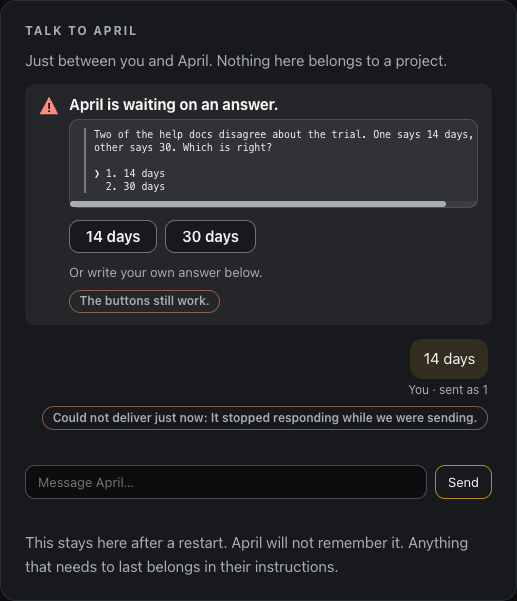
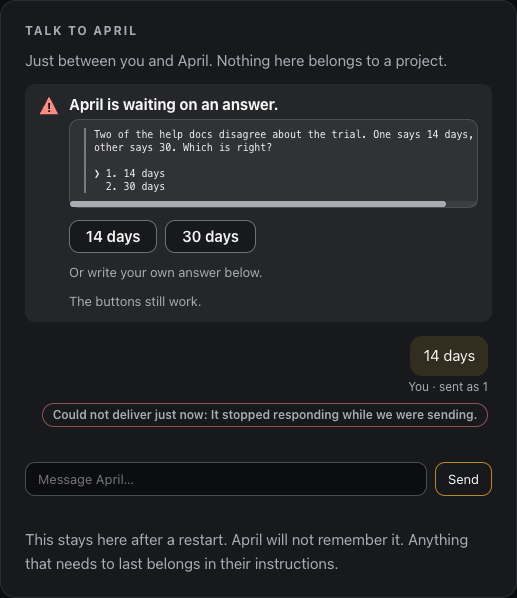
answer-panel -- the scrollbar gate was wrong twice, and the reassurance stops wearing red
TWO CORRECTIONS AND ONE RULING.

docs/browser-checks/render-talk.js: I gated the scrollbar assertion on "headed",
having concluded that headless Chromium ignores ::-webkit-scrollbar. Mona Lisa
ran my own control against system Chrome and got the opposite, and concluded it
was the BINARY (Playwright's bundled Chromium against the real one). We were
both wrong, and the third measurement says why:

  bundled chromium HEADLESS                     not honoured
  bundled chromium HEADED                       honoured
  system chrome    HEADLESS (via playwright)    not honoured
  bundled  HEADLESS, ignoreDefaultArgs --hide-scrollbars   honoured
  system   HEADLESS, ignoreDefaultArgs --hide-scrollbars   honoured

Playwright passes --hide-scrollbars by default in headless mode. Neither the
render mode nor the binary decided it; a launch flag did. The check drops the
flag, so the assertion is now live in BOTH modes rather than permanently skipped
on any headless machine, and the guard is a CAPABILITY PROBE rather than a
user-agent sniff: ask the engine for a 24px scrollbar on a throwaway box and see
whether layout moves by 24. A probe cannot be wrong about its own engine, which
is what both of our inferences were.

web/index.html: the reassurance stops wearing the failure pill, ruled by Mona
Lisa. "The buttons still work." is a recovery instruction, not a verdict: its
whole job is to say the thing still works, and it drew as a red pill INSIDE the
[…]

diff --git a/docs/browser-checks/render-talk.js b/docs/browser-checks/render-talk.js
@@ -187,7 +187,20 @@ const STATES = {
      script's whole output is the class of evidence that weakens under it:
      contrast ratios, computed backgrounds, scrollWidth overflow and
      elementFromPoint. `HEADED=0` for a machine with no console session. */
-  const browser = await chromium.launch({ headless: process.env.HEADED === '0' });
+  /* ⚠ `--hide-scrollbars` IS REMOVED, and it is the whole reason this check
+     could not see a scrollbar headless. Playwright passes that flag by default
+     in headless mode, which suppresses scrollbars whatever the CSS says. Two
+     wrong conclusions were drawn before the flag was found: "headless does not
+     honour ::-webkit-scrollbar" (mine) and "Playwright's bundled Chromium
+     differs from system Chrome" (Mona Lisa's, from a command-line Chrome that
+     honoured it in both headless modes). Measured across four launches: the
+     bundled Chromium AND system Chrome both honour the rule headless once the
+     flag is gone, and layout moves by exactly the height the rule asks for.
+     Neither the mode nor the binary was the cause. */
+  const browser = await chromium.launch({
+    headless: process.env.HEADED === '0',
+    ignoreDefaultArgs: ['--hide-scrollbars'],
+  });
   const problems = [];
   for (const theme of ['light', 'dark']) {
     const page = await browser.newPage({
@@ -390,7 +403,28 @@ const STATES = {
                  only because `::-webkit-scrollbar` opts this box out of macOS
                  overlay behaviour. Borders included; the arms differ by 6. */
               chrome: q.offsetHeight - q.clientHeight,
-              headless: /HeadlessChrome/.test(navigator.userAgent),
+              /* ⚠ THE CAPABILITY, PROBED, not the render mode inferred from a
+                 user-agent string. Whether this engine reserves space for a
+                 styled scrollbar is a question with a direct answer: ask for a
+                 24px one on a throwaway box and see whether layout moves by 24.
+                 An inference from `HeadlessChrome` was wrong twice over -- it
+                 is neither the mode nor the binary that decides, it is a launch
+                 flag -- and a probe cannot be wrong about its own engine. */
+              honoursBar: (() => {
+                const box = document.createElement('pre');
+                box.id = '__barprobe';
+                box.style.cssText = 'width:60px;overflow-x:auto;white-space:pre;border:0;position:absolute;left:-9999px';
+                box.textContent = 'x'.repeat(200);
+                const rule = document.createElement('style');
+                rule.textContent = '#__barprobe::-webkit-scrollbar { height: 24px; -webkit-appearance: none; }';
+                document.body.appendChild(box);
+                const bare = box.offsetHeight - box.clientHeight;
+                document.head.appendChild(rule);
+                void box.offsetHeight;
+                const styled = box.offsetHeight - box.clientHeight;
+                box.remove(); rule.remove();
+                return styled - bare === 24 || styled === 24;
+              })(),
             };
           })(),
           metaAlign: (() => {
@@ -401,6 +435,14 @@ const STATES = {
           label: el('d-talk-label').textContent,
           qlab: el('d-qask-lab').textContent,
           qfail: el('d-qask-fail').hidden ? '' : el('d-qask-fail').textContent,
+          /* ⚠ AND WHAT IT IS WEARING. This line is a recovery instruction --
+             its whole job is to say the buttons still work -- and it shipped in
+             `.delivery.failed`, a red pill, INSIDE the question's own box. The
+             stylesheet's rule is that a question must not look like a fault.
+             The swap to a hint was pinned by nothing, so a later "tidy-up" that
+             put the pill back would have been invisible to the whole suite. */
+          qfailBorder: el('d-qask-fail').hidden ? null
+            : getComputedStyle(el('d-qask-fail')).borderTopWidth,
           // ⚠ THE CONTROL'S BOUNDARY, measured in the page. WCAG SC 1.4.11
           // asks 3:1 of whatever identifies a control, and a screenshot cannot
           // tell you a border is invisible -- it looks tasteful.
@@ -490,6 +532,10 @@ const STATES = {
       /* Hidden in exactly one state, and SAID BOTH WAYS: a promise missing from
          a state that keeps things is as wrong as one standing over a state that
          does not, and only the second half was ever the bug. */
+      if (m.qfail && m.qfailBorder && m.qfailBorder !== '0px') {
+        problems.push(`${tag}: the reassurance "${m.qfail}" is wearing a ${m.qfailBorder} border, `
+          + 'so the good news is drawn as a fault inside the question box');
+      }
       if (m.qtext && m.qtext.cut) measuredCut += 1;
       if (m.qtext && m.qtext.cut && !(m.qtext.scrollable && m.qtext.focusable)) {
         problems.push(`${tag}: the question is cut off and what is left cannot be reached `
@@ -502,7 +548,7 @@ const STATES = {
          all, and a headless run asserting its absence would report a correct
          fix as broken. The states still say which arm they are in; the
          assertion holds only where the engine can answer. */
-      if (m.qtext && !m.qtext.headless) {
+      if (m.qtext && m.qtext.honoursBar) {
         const bar = m.qtext.chrome - 2;   // the box's own 0.5px borders
         if (m.qtext.cut && bar < 5) {
           problems.push(`${tag}: the question is cut and no scrollbar says so (chrome ${m.qtext.chrome}px)`);
@@ -510,10 +556,11 @@ const STATES = {
         if (!m.qtext.cut && bar > 2) {
           problems.push(`${tag}: a scrollbar is drawn over a question that fits (chrome ${m.qtext.chrome}px)`);
         }
-      } else if (m.qtext && m.qtext.headless && !headlessNoted) {
+      } else if (m.qtext && !m.qtext.honoursBar && !headlessNoted) {
         headlessNoted = true;
-        problems.push(`[${theme}] scrollbar: this run is HEADLESS, where ::-webkit-scrollbar is ignored `
-          + 'entirely, so the question box\u2019s affordance is UNCHECKED (run headed, which is the default)');
+        problems.push(`[${theme}] scrollbar: this engine reserves no space for a styled scrollbar `
+          + '(probed with a 24px rule and layout did not move), so the question box\u2019s affordance '
+          + 'is UNCHECKED here -- the usual cause is a launcher passing --hide-scrollbars');
       }
       if (m.metaAlign !== null) {
         measuredMeta += 1;

diff --git a/web/index.html b/web/index.html
@@ -2596,7 +2596,21 @@ code.t { font: 13px var(--k-mono); border-radius: 4px; padding: .12em .4em;
              role="region" aria-labelledby="d-qask-lab"></pre>
         <div class="qopts" id="d-qopts" hidden></div>
         <p class="qout" id="d-qout" hidden>Or write your own answer below.</p>
-        <span class="delivery failed" id="d-qask-fail" hidden></span>
+        <!-- ⚠ A HINT, NOT A VERDICT PILL, ruled by Mona Lisa 2026-08-20 after a
+             reviewer read the picture. This line is a RECOVERY INSTRUCTION and
+             its whole job is to say the buttons still work; the failure
+             sentence lives on the message row above, deliberately. It wore
+             `.delivery.failed`, which put a red pill on the good news INSIDE
+             the question's own box -- and the stylesheet's own rule is that a
+             question must not look like a fault, because "making an ordinary
+             question look like a fault is how people start ignoring red". The
+             send failed; the question is fine.
+             `.delivery` is also the message row's grammar ("this is what
+             happened to a message I sent"), which is true one container up and
+             false of a line about buttons: borrowing a class across containers
+             inherits a claim written for the other container. The plan
+             specified `.delivery.failed` here and the plan was wrong. -->
+        <p class="qout" id="d-qask-fail" hidden></p>
       </div>
     </div>
     <div class="dmthread" id="d-dmthread"></div>
